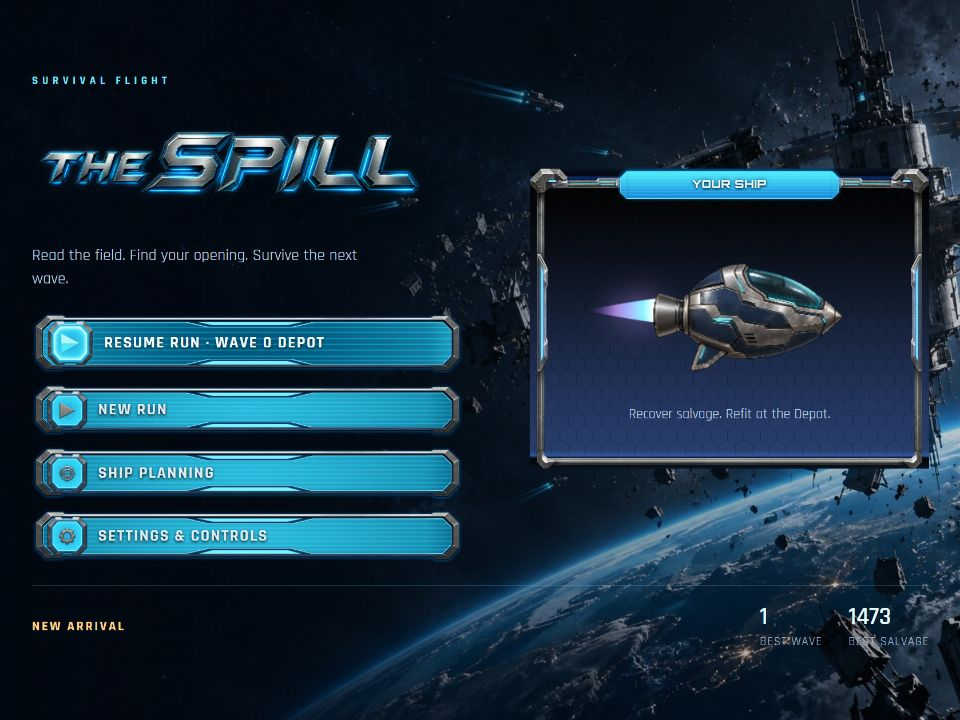
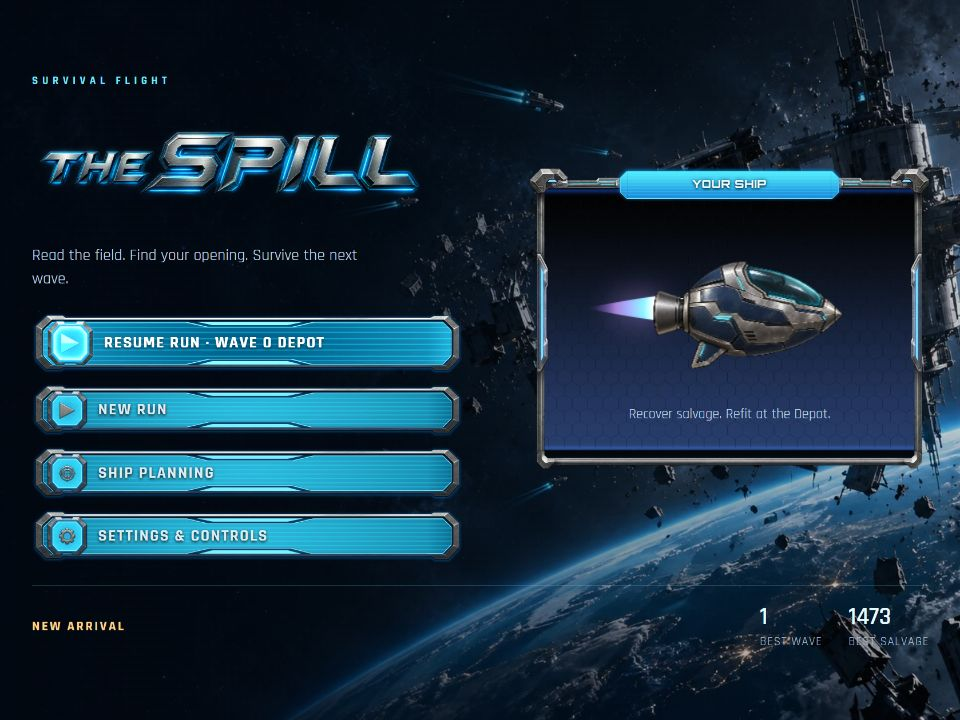
Align mobile Depot chrome and keep the complete ship visible

diff --git a/public/space-ui.css b/public/space-ui.css
@@ -281,8 +281,8 @@ body.mwr-ui .ac-workshop-buy[data-ui-state="selected"]:disabled { opacity: 1; co
 body.mwr-ui .ac-weapon-stats { color: #b5e8f7; font-size: 12px; }
 body.mwr-ui :is(.ac-workshop-free, .ac-workshop-need, .ac-workshop-milestone, .ac-workshop-contract, .ac-workshop-requirement) { color: var(--mwr-amber); }
 
-/* Depot stays one scroll container so refits retain their place. Header and
-   launch bar are sticky, with their full in-flow height reserved at both ends. */
+/* Shared Depot controls; the framed shell below reserves separate header and
+   footer rows around the middle scroll container. */
 body.mwr-ui .ac-depotwrap.ac-workshop {
   padding: max(14px, env(safe-area-inset-top)) 18px max(14px, env(safe-area-inset-bottom));
   background: linear-gradient(#030a12b3, #030a12e8), url("./art/space-ui/menu-background.webp") center / cover;
@@ -318,6 +318,7 @@ body.mwr-ui :is(.ac-workshop, .ac-spillsetup) .ac-helpdot {
   width: 44px;
   height: 44px;
   min-width: 44px;
+  padding: 0;
   border: 1px solid #628ba1;
   border-radius: 3px;
   background: linear-gradient(#253e50, #0b1d2c);
@@ -580,7 +581,18 @@ body.mwr-ui.mwr-motion-off .ac-workshop-hint-ring::after { opacity: .8; transfor
 body.mwr-ui .mwr-kit-panel {
   position: relative;
   isolation: isolate;
+  background: none;
+}
+/* The source frame has transparent margins beyond its bevel. Keep the opaque
+   insert inside that bevel instead of painting a blue rectangle underneath it. */
+body.mwr-ui .mwr-kit-panel::after {
+  content: "";
+  position: absolute;
+  inset: 14px 12px 8px;
+  z-index: -1;
   background: #071321 url("./art/space-ui/panel-surface.webp") center / cover no-repeat;
+  clip-path: polygon(8px 0, calc(100% - 8px) 0, 100% 8px, 100% calc(100% - 8px), calc(100% - 8px) 100%, 8px 100%, 0 calc(100% - 8px), 0 8px);
+  pointer-events: none;
 }
 body.mwr-ui .mwr-kit-panel::before {
   content: "";
@@ -664,12 +676,13 @@ body.mwr-ui .mwr-screen-shell .mwr-screen-subtitle { margin-top: 8px; }
 body.mwr-ui .mwr-screen-shell .mwr-settings-panel { padding: 0; border: 0; background: none; box-shadow: none; }
 body.mwr-ui .mwr-screen-shell .ac-spillsetting { background: #071626b3; }
 body.mwr-ui .mwr-screen-shell .mwr-actions button { flex-basis: 160px; }
-/* The Depot's compact wallet/header stays in its established scroll layout.
-   Its solid header closes the top opening instead of adding a second title row. */
+/* Standalone guide cards retain their own frame; the Depot shell below removes
+   this border from its middle scrolling card to avoid double framing. */
 body.mwr-ui .ac-depotwrap.ac-workshop .ac-depotcard {
   border: 7px solid transparent;
   border-image: url("./art/space-ui/panel-frame.webp") 84 340 72 340 / 24px 95px 20px / 0 stretch;
   background: #071321 url("./art/space-ui/panel-surface.webp") center / cover no-repeat;
+  background-clip: padding-box;
 }
 body.mwr-ui .ac-workshop-head {
   border-top: 3px solid #5c8596;
@@ -686,4 +699,107 @@ body.mwr-ui .ac-workshop-head {
   body.mwr-ui .mwr-screen-shell > .mwr-screen { inset-block: 38px 16px; padding-block: 4px; gap: 14px; }
   body.mwr-ui .mwr-ship-bay { padding-top: 26px; padding-bottom: 13px; }
   body.mwr-ui .mwr-ship-bay > .mwr-panel-title { font-size: 10px; min-height: 32px; }
+}
+
+/* Depot chrome owns real grid rows. Only the middle card scrolls, so the
+   footer never floats over the ship or its upgrade controls. */
+body.mwr-ui .mwr-depot-shell {
+  display: grid;
+  grid-template-rows: auto minmax(0, 1fr) auto;
+  width: min(1120px, 100%);
+  height: 100%;
+  min-height: 0;
+  max-height: 940px;
+  padding: 40px 14px 16px;
+}
+body.mwr-ui .ac-depotwrap.ac-workshop .mwr-depot-shell > .ac-depotcard {
+  width: 100%;
+  height: 100%;
+  min-height: 0;
+  max-height: none;
+  padding: 0;
+  border: 0;
+  border-radius: 0;
+  background: none;
+  box-shadow: none;
+  scroll-padding: 12px;
+}
+body.mwr-ui .mwr-depot-topbar {
+  position: relative;
+  display: grid;
+  grid-template-columns: minmax(72px, 1fr) auto auto;
+  gap: 12px;
+  padding: 4px 10px 8px;
+  border-top: 0;
+  border-bottom: 1px solid var(--mwr-line-soft);
+  background: #071522;
+  box-shadow: none;
+}
+body.mwr-ui .mwr-depot-heading .ac-kicker { margin: 0; font-size: 10px; letter-spacing: .12em; }
+body.mwr-ui .mwr-depot-vitals {
+  justify-content: flex-start;
+  flex-wrap: nowrap;
+  gap: 12px;
+  min-width: max-content;
+  padding: 0;
+  border: 0;
+  background: none;
+  font-size: 13px;
+}
+body.mwr-ui .mwr-depot-vitals .ac-workshop-health { flex: none; gap: 4px; }
+body.mwr-ui .mwr-depot-vitals progress { width: 104px; height: 5px; }
+body.mwr-ui .mwr-depot-vitals .ac-workshop-buy { padding: 6px 10px; font-size: 12px; }
+body.mwr-ui .mwr-depot-shell > .ac-workshop-footer {
+  position: relative;
+  padding: 6px 10px 0;
+  margin: 0;
+  border-top: 1px solid var(--mwr-line-soft);
+  background: #071522;
+}
+body.mwr-ui .mwr-depot-shell > .ac-workshop-footer::before { display: none; }
+body.mwr-ui .mwr-depot-shell .mwr-depot-layout { padding: 10px; }
+body.mwr-ui .ac-workshop-selection .mwr-depot-upgrade-note {
+  margin: 5px 0 0;
+  padding: 0;
+  border: 0;
+  background: none;
+  color: var(--mwr-amber);
+  font-size: 12px;
+}
+@media (max-width: 700px) {
+  body.mwr-ui .mwr-depot-topbar { grid-template-columns: minmax(0, 1fr) auto; gap: 6px 10px; }
+  body.mwr-ui .mwr-depot-vitals { grid-row: 2; grid-column: 1 / -1; justify-content: space-between; gap: 6px; font-size: 12px; }
+  body.mwr-ui .mwr-depot-vitals progress { width: 88px; }
+  body.mwr-ui .mwr-depot-vitals .ac-workshop-buy { padding-inline: 6px; font-size: 11px; }
+  body.mwr-ui .mwr-depot-heading { align-self: center; }
+  body.mwr-ui .mwr-depot-topbar .ac-workshop-headtools { grid-column: 2; grid-row: 1; }
+}
+@media (orientation: landscape) and (max-height: 540px) {
+  body.mwr-ui .mwr-depot-shell { padding-top: 36px; padding-bottom: 12px; }
+  body.mwr-ui .mwr-depot-shell .ac-workshop-wallet { min-height: 34px; }
+  body.mwr-ui .mwr-depot-topbar { grid-template-columns: minmax(64px, 1fr) auto auto; padding: 0 8px 4px; gap: 8px; }
+  body.mwr-ui .mwr-depot-vitals { grid-column: auto; grid-row: auto; gap: 8px; font-size: 12px; }
+  body.mwr-ui .mwr-depot-topbar .ac-workshop-headtools { grid-column: auto; grid-row: auto; gap: 6px; }
+  body.mwr-ui .mwr-depot-heading .ac-kicker { font-size: 9px; letter-spacing: .06em; }
+  body.mwr-ui .mwr-depot-vitals progress { width: 88px; }
+  body.mwr-ui .mwr-depot-shell .mwr-depot-layout { padding: 6px 8px; gap: 12px; grid-template-columns: minmax(280px, 1fr) minmax(0, 1fr); }
+  body.mwr-ui .mwr-depot-shell .ac-workshop-receipt { min-height: 18px; padding-bottom: 2px; font-size: 11px; }
+  body.mwr-ui .mwr-depot-ship-stage { min-height: 0; display: grid; grid-template-columns: repeat(4, minmax(0, 1fr)); gap: 4px; padding: 0 4px 4px; }
+  body.mwr-ui .mwr-depot-ship-stage .ac-workshop-preview { grid-column: 1 / -1; width: 100%; max-width: none; min-height: 0; height: clamp(96px, calc(100dvh - 238px), 170px); object-fit: contain; }
+  body.mwr-ui .mwr-depot-ship-stage .ac-workshop-links { display: none; }
+  body.mwr-ui .mwr-depot-ship-stage .ac-workshop-system { position: relative; inset: auto; width: auto; min-height: 44px; padding: 5px 2px; font-size: 11px; gap: 2px; }
+  body.mwr-ui .mwr-depot-ship-stage .ac-workshop-systemname { gap: 3px; }
+  body.mwr-ui .mwr-depot-ship-stage .ac-workshop-icon { width: 13px; height: 13px; }
+  body.mwr-ui .mwr-depot-ship-stage .ac-workshop-systemprice { font-size: 11px; }
+  body.mwr-ui .mwr-depot-ship-stage .ac-workshop-system:focus-visible { outline-offset: 1px; }
+  body.mwr-ui .mwr-depot-ship-stage.ac-workshop-hint-arrows .ac-workshop-system::after { display: none; }
+}
+@media (orientation: landscape) and (max-height: 350px) {
+  body.mwr-ui .mwr-depot-ship-stage .ac-workshop-preview { height: 72px; }
+}
+@media (orientation: landscape) and (max-width: 700px) {
+  body.mwr-ui .mwr-depot-topbar .ac-workshop-wallet { padding: 4px 6px; font-size: 14px; gap: 4px; }
+  body.mwr-ui .mwr-depot-topbar .mwr-wallet-label { display: none; }
+  body.mwr-ui .mwr-depot-outfitting :is(.ac-workshop-weapongrid, .ac-artifact-grid) { grid-template-columns: 1fr; }
+  body.mwr-ui .ac-workshop-utilityname { flex-wrap: wrap; gap: 4px; }
 }

diff --git a/illustrated-src/game/spill-workshop.ts b/illustrated-src/game/spill-workshop.ts
@@ -434,8 +434,8 @@ export function drawDepotWorkshop(engine: Engine, view: DepotView, rerender: () 
     wrap.append(drawDepotGuide(engine, () => { view.guide = false; rerender(); }, "BACK TO DEPOT"));
     return wrap;
   }
-  const sheet = el("section", "ac-lvlcard ac-depotcard ac-workshop-card mwr-panel");
-  sheet.setAttribute("role", "dialog"); sheet.setAttribute("aria-label", "Salvage depot");
+  const shell = el("div", "mwr-depot-shell mwr-kit-panel"), sheet = el("section", "ac-lvlcard ac-depotcard ac-workshop-card mwr-panel");
+  shell.setAttribute("role", "dialog"); shell.setAttribute("aria-label", "Salvage depot");
   const arming = (sp.depot?.arm ?? 0) > 0;
   // A redraw must not restart the nudge, so its delay is measured from when
   // this Depot opened: negative once the wait is over, which resumes the
@@ -461,22 +461,23 @@ export function drawDepotWorkshop(engine: Engine, view: DepotView, rerender: () 
       if (engine.spillBuy(what) !== "ok") { view.receipt = "Upgrade unavailable"; rerender(); }
     }; return b;
   };
-  const head = el("header", "ac-workshop-head"), heading = el("div"), tools = el("div", "ac-workshop-headtools"), wallet = el("div", "ac-workshop-wallet");
+  const head = el("header", "ac-workshop-head mwr-depot-topbar"), heading = el("div", "mwr-depot-heading"), tools = el("div", "ac-workshop-headtools"), wallet = el("div", "ac-workshop-wallet");
   const trial = engine.spillTrial();
-  heading.append(el("p", "ac-kicker", trial ? "PRACTICE · NO PROGRESS SAVED" : `THE SPILL · ${sp.welcome ? "PRE-FLIGHT" : `WAVE ${sp.wave} CLEARED`}`), el("h2", "", trial ? "Trial loadout" : sp.firstPass ? "First pass complete" : "Salvage depot"));
+  const title = el("h2", "mwr-panel-title", trial ? "Trial loadout" : sp.firstPass ? "First pass complete" : "Salvage depot");
+  heading.append(el("p", "ac-kicker", trial ? "PRACTICE · NO PROGRESS SAVED" : `THE SPILL · ${sp.welcome ? "PRE-FLIGHT" : `WAVE ${sp.wave} CLEARED`}`));
   wallet.setAttribute("aria-label", `${sp.ore} Salvage`); wallet.append(coin(), el("b", "", String(sp.ore)), el("span", "mwr-wallet-label", "SALVAGE"));
   const guide = el("button", "ac-helpdot", "?"); guide.setAttribute("aria-label", "How the Depot works"); guide.dataset.spillControl = "guide"; guide.onclick = () => { view.guide = true; rerender(); };
-  tools.append(wallet, guide); head.append(heading, tools); sheet.append(head);
-  if (sp.firstPass && !trial) sheet.append(el("p", "ac-workshop-milestone", "Wave 20 complete. Victory recorded. Keep your ship and fly on."));
-  const layout = el("div", "mwr-depot-layout"), bay = el("div", "mwr-depot-bay"), outfitting = el("div", "mwr-depot-outfitting");
-  layout.append(bay, outfitting); sheet.append(layout);
-  const status = el("div", "ac-workshop-status"), health = el("div", "ac-workshop-health"), healthText = el("span"), healthBar = el("progress");
+  const status = el("div", "ac-workshop-status mwr-depot-vitals"), health = el("div", "ac-workshop-health"), healthText = el("span", "mwr-depot-healthtext"), healthBar = el("progress");
+  status.setAttribute("role", "group"); status.setAttribute("aria-label", "Ship status");
   healthText.append(systemIcon("plating"), el("b", "", "Health"), el("span", "", `${sp.hull} / ${sp.maxHull}`));
   healthBar.max = sp.maxHull; healthBar.value = sp.hull; healthBar.setAttribute("aria-label", `${sp.hull} of ${sp.maxHull} health`); health.append(healthText, healthBar);
   const shields = el("div", "ac-workshop-shields"); shields.append(systemIcon("shield"), el("span", "", `Shields ${sp.shield} / 2`));
-  status.append(health, shields); if (!sp.welcome) status.append(priceButton("repair", "Repair")); bay.append(status);
-  if (sp.welcome) bay.append(el("p", "ac-workshop-free", sp.freeUpgrade ? "Choose one free upgrade" : "✓ Upgrade fitted · ready to launch"));
-  const stage = el("div", "ac-workshop-stage"); stage.append(shipPreview(engine, spillBuildFromState(sp), 192, view.flashAt));
+  status.append(health, shields); if (!sp.welcome) status.append(priceButton("repair", "Repair"));
+  tools.append(wallet, guide); head.append(heading, status, tools);
+  if (sp.firstPass && !trial) sheet.append(el("p", "ac-workshop-milestone", "Wave 20 complete. Victory recorded. Keep your ship and fly on."));
+  const layout = el("div", "mwr-depot-layout"), bay = el("div", "mwr-depot-bay"), outfitting = el("div", "mwr-depot-outfitting");
+  layout.append(bay, outfitting); sheet.append(layout);
+  const stage = el("div", "ac-workshop-stage mwr-depot-ship-stage"); stage.append(shipPreview(engine, spillBuildFromState(sp), 192, view.flashAt));
   // the arrows point at the four options until the pilot taps one of them
   if (hinting && !view.picked) stage.classList.add("ac-workshop-hint-arrows");
   const links = document.createElementNS("http://www.w3.org/2000/svg", "svg"); links.classList.add("ac-workshop-links"); links.setAttribute("viewBox", "0 0 344 192"); links.setAttribute("aria-hidden", "true");
@@ -498,6 +499,7 @@ export function drawDepotWorkshop(engine: Engine, view: DepotView, rerender: () 
   words.append(el("h3", "", `${SPILL_SHOP[part].name}${part === "plating" ? " upgrade" : ""}`), el("p", "", part === "shield"
     ? tier >= max ? "Two shields ready" : `Blocks one hit · ${tier} → ${tier + 1} shields`
     : tier >= max ? "Fully upgraded" : part === "plating" ? `Max health ${sp.maxHull} → ${sp.maxHull + 1}` : SPILL_SHOP[part].levels[tier]));
+  if (sp.welcome) words.append(el("p", "ac-workshop-free mwr-depot-upgrade-note", sp.freeUpgrade ? "Choose one free upgrade" : "✓ Upgrade fitted · ready to launch"));
   const take = priceButton(part);
   // the ring marks the one button that fits the free upgrade
   if (hinting) take.classList.add("ac-workshop-hint-ring");
@@ -641,5 +643,5 @@ export function drawDepotWorkshop(engine: Engine, view: DepotView, rerender: () 
   const go = el("button", "ac-primary ac-workshop-launch", sp.welcome && sp.freeUpgrade ? "CHOOSE FREE UPGRADE" : `LAUNCH WAVE ${sp.welcome ? 1 : sp.wave + 1}`);
   go.disabled = arming || !!(sp.welcome && sp.freeUpgrade); go.dataset.spillControl = "launch"; go.onclick = () => engine.spillLeaveDepot();
   uiState(go, arming ? "arming" : sp.welcome && sp.freeUpgrade ? "locked" : "available");
-  actions.append(go); footer.append(actions); sheet.append(footer); wrap.append(sheet); return wrap;
+  actions.append(go); footer.append(actions); shell.append(title, head, sheet, footer); wrap.append(shell); return wrap;
 }

diff --git a/docs/UI_IDENTITY.md b/docs/UI_IDENTITY.md
@@ -22,13 +22,14 @@ At the owner's direction on 2026-10-30, **Flight Trials are hidden for now**. Th
 
 - Keep the flight center clear. HUD information belongs around the playfield edges; decorative frames must not become touch targets or conceal hazard warnings.
 - Preserve portrait and landscape layouts, browser safe-area insets, rotation pause and the existing floating joystick. Do not add fixed flight buttons.
-- Assemble a panel from its separate honeycomb surface, outer metal frame and cyan nameplate. Keep label text inside the nameplate and content inside the frame. Nine-slice resizable controls and frames so their metal bevels retain a consistent thickness; do not stretch the whole border image to unrelated aspect ratios.
-- Let long Depot, guide, loadout and settings content scroll, including expanded control instructions. Apply the same requirement if trial navigation returns. The Depot's ship/system bay and outfitting sections may sit side by side when space permits and stack on narrow screens. Launch/save actions remain outside the two-column content group.
+- Assemble a panel from its separate honeycomb surface, outer metal frame and cyan nameplate. Inset the surface behind the transparent bevels so rectangular backing cannot protrude around corners. Keep label text inside the nameplate and content inside the frame. Nine-slice resizable controls and frames so their metal bevels retain a consistent thickness; do not stretch the whole border image to unrelated aspect ratios.
+- Let long Depot, guide, loadout and settings content scroll, including expanded control instructions. Apply the same requirement if trial navigation returns. The Depot's outer shell owns the frame and separate title plate; its top bar, middle scroller and footer occupy separate rows with the same side inset. Health, Shields and the existing Repair action belong in the top bar. Keep `.ac-depotcard` as the middle scroll/focus target; launch/save actions must not overlay its content.
+- The Depot's ship/system bay and outfitting sections may sit side by side when space permits and stack on narrow screens. In short landscape, place the four system controls in a row below the full ship preview, rather than over its image. Keep the free-upgrade message with the selected-system purchase. Depot guides retain their separate scrollable card; they do not use the workshop shell.
 - Keep the selected weapon visibly equipped even though its equip button is disabled. Selected, locked, insufficient-funds, completed, temporarily arming, hover, pressed and keyboard-focus states must be distinguishable. State text and `aria-pressed` carry meaning in addition to color.
 - Retain the remaining `data-action`, `data-spill-control`, `data-career-choice`, `data-ship-starter` and `data-ship-color` hooks; only the explicitly superseded Controls entry and trial navigation were removed. Existing focus restoration, details expansion, scroll restoration, modal behavior and checkpoint actions continue to apply.
 - Honor reduced motion and avoid decorative continuous motion during navigation. Preserve the action labels and readable contrast when backgrounds or fonts are unavailable.
 
-The shared presentation hooks are `mwr-panel`, `mwr-section`, `mwr-option`, `mwr-depot-layout`, `mwr-depot-bay`, `mwr-depot-outfitting`, `mwr-control-card` and `data-ui-state`. The latter describes presentation only; engine methods remain the authority for purchases, unlocks and launch guards. Avoid reimplementing rules in styles or UI state attributes.
+The shared presentation hooks are `mwr-panel`, `mwr-section`, `mwr-option`, `mwr-depot-layout`, `mwr-depot-bay`, `mwr-depot-outfitting`, `mwr-control-card` and `data-ui-state`. The Depot adds `mwr-depot-shell`, `mwr-depot-topbar`, `mwr-depot-vitals`, `mwr-depot-ship-stage` and `mwr-depot-upgrade-note`. Its shell contains the single `h2.mwr-panel-title`, header, `.ac-depotcard` and footer as siblings; the title plate sits over the frame's top gap. `data-ui-state` describes presentation only; engine methods remain the authority for purchases, unlocks and launch guards. Avoid reimplementing rules in styles or UI state attributes.
 
 ## Supplied assembly references
 

diff --git a/docs/VALIDATION.md b/docs/VALIDATION.md
@@ -2,6 +2,24 @@
 
 ## The Spill identity — 2026-10-30
 
+### Depot alignment correction
+
+The owner found visible defects in the PR screenshots: the opaque backing extended outside the metal bevel, Depot sections used inconsistent insets, and the sticky footer covered the ship. These were candidate-image findings, not reports from a merged build or a physical-phone playtest. They supersede the earlier visual-review claims below for the original Depot layout.
+
+The corrected Depot has an outer frame and nameplate with separate header, scroll area and footer rows. Health, Shields and Repair occupy the header. On short landscape screens the four system controls sit below the complete ship canvas. Panel surfaces are inset independently of the decorative frame. At 568px landscape width, weapon/artifact cards stack and utility headings wrap.
+
+Actual browser screenshots and bounds checks confirm the full ship canvas, separate header/body/footer, and no header overlap at 390x844 and 844x390 for the normal opening Depot, plus 320x480 and 568x320 for an upgraded, damaged-ship fixture with a 2,500-salvage wallet. At 568x320 its scroll/client widths both measure 506px; all four system controls are at least 52px high. At 844x390 the normal Depot measures 782/782px and retains 44px controls. Inspection caught and corrected Repair/wallet overlap and utility-heading overflow; scroll-width equality alone was insufficient to detect the former.
+
+The later-Depot image is a labeled memory-only fixture, not natural progress. Repair changed Health 3/5 to 5/5 and the wallet from 2,500 to 2,470. The middle area scrolled independently; the header and footer stayed visible. Normal Depot Help and Back to Depot worked. Home at 390x844 and 960x720, Settings and the sample result at 390x844 were inspected and their screenshots refreshed. Browser warnings/errors were empty. Both fixture files and tabs were removed, and the viewport override reset.
+
+The full 28-file `npm run check` passed after the Depot structure change. Subsequent CSS-only fit corrections passed a fresh build and browser review. No lint script exists; `git diff --check` passes. Physical-device feel and owner visual acceptance remain open; PR6 is not merged or published.
+
+![Corrected opening Depot at 844x390](images/identity-depot-landscape.jpg)
+
+[Portrait Depot](images/identity-depot-portrait.jpg) · [568x320 later-Depot fixture](images/identity-depot-repair-fixture.jpg)
+
+### Identity implementation and earlier checks
+
 `npm run check` passes TypeScript, clean build, asset integrity and **28 test files** on existing Node24.19.0. `git diff --check` passes; there is no separate lint script. Docker's Linux engine remains unavailable, so existing local tooling was used without installing host packages. The original 125 assets and two combat sprites remain byte-identical. The 23 new identity files total **2,084,507 bytes**; license, exact generation/edit prompts, original hull reference and source hashes are recorded separately.
 
 The production renderer checks eight portrait/landscape HUD frames with the actual shipped fonts and art, safe text bounds, a clear central flight lane, and unchanged gameplay state. Ship checks cover all 15 system-axis tiers, original attachment registration, no dependence on the old pilot, and the retained illumination setting. A 12-frame ship sheet was inspected. Another 36 cases cover all six launch lessons during countdown/GO at 568x320, 667x320 and 844x390 with a safe-area inset. Existing input, save, economy, trial isolation, encounter, hazard and ship-render regressions pass. The pinned shared-content hash was explicitly updated for the reviewed currency text rename; numeric rules were unchanged.

diff --git a/AGENTS.md b/AGENTS.md
@@ -14,7 +14,9 @@ The owner authorized a complete independent interface identity on 2026-10-30 usi
 
 The generated neutral hull skin replaces the visible acorn/pilot while using the original sprite coordinate space and retaining upgrade attachments and tier indicators. Keep its exact source-reference provenance in `docs/ui-image-prompts.json`; visual changes must not change ship collision geometry or balance.
 
-The interface is mobile-first. Use the supplied panel/button examples as assembly references: honeycomb insert, metal outer frame and a separate centered cyan title plate over the top gap. Keep the ship panel's nameplate present. Use nine-slicing for resizable metal borders instead of stretching the whole image; inspect portrait and short landscape at actual phone sizes. Source example receipts are in `docs/UI_IDENTITY.md`; the large private example images and editable kit stay outside the repository.
+The interface is mobile-first. Use the supplied panel/button examples as assembly references: honeycomb insert, metal outer frame and a separate centered cyan title plate over the top gap. Inset the backing behind transparent bevels so it cannot spill around the frame. Keep the ship panel's nameplate present. Use nine-slicing for resizable metal borders instead of stretching the whole image; inspect portrait and short landscape at actual phone sizes. Source example receipts are in `docs/UI_IDENTITY.md`; the large private example images and editable kit stay outside the repository.
+
+The Depot shell keeps the frame/title, top bar, middle `.ac-depotcard` scroller and footer separate. Health, Shields and Repair belong in the top bar; align the header, content and footer to the same side inset. Preserve `.ac-depotcard` as the host's scroll/focus target and keep footer actions from covering content. In short landscape, show the full ship with system controls in a row below it. Keep the free-upgrade affordance beside its purchase control; guides retain their separate scrollable card.
 
 The owner's latest menu direction combines Settings and Controls and hides Flight Trials for now. Preserve the trial implementation and isolated regression coverage for later, but do not expose a production shortcut or restore its menu entry without owner direction. Keep the combined screen's control guide, field guide and existing settings reachable on phones.
 

diff --git a/.agent/CONTINUITY.md b/.agent/CONTINUITY.md
@@ -1,6 +1,8 @@
 # MobileWaveRun continuity
 
 ## [PLANS]
+- 2026-10-30T22:30Z [OUTCOMES] [TOOL] Depot correction source/browser review finished: full preview/topbar vitals/separate footer, inset panel surfaces, compact controls below ship. Normal390/844, fixture320/568 with2500wallet+Repair checked; repaired3/5to5/5 costs30, narrow widths506/506, min52px controls. Fixed discovered Repair overlap and utility heading overflow. Updated screenshots; memory-only fixture tabs/files removed, viewport reset, normal menu retained. Full28-filecheck passes after structure change; finalCSS build/diff pass. SamePR6 update pending, no merge authorized; physical-device/owner acceptance UNCONFIRMED.
+- 2026-10-30T22:20Z [USER] Fix screenshot-visible panel bleed/Depot alignment; move Health and Shields into topbar and show full ship. User reviewed PR images only, not merged/in-game. SamePR6, no merge authorized. [CODE] Outerframe/title, header/middle scroller/footer as separate rows; inset surface; short landscape system row below preview. Final responsive/browser proof and checks pending.
 - 2026-10-30T21:59Z [USER] Combine Settings and Controls in one menu entry; hide Flight Trials for now to simplify mobile navigation. Preserve underlying trial implementation and regression coverage for later. Extend existing PR6; no merge authorized.
 - 2026-10-30T21:29Z [USER] Full UI/identity overhaul authorized with supplied Space Station packs; preserve gameplay, working title The Spill, used assets allowed on GitHub. PR5 merged81ee2d0; branch codex/space-ui-identity. No merge authorization.
 - 2026-10-30T03:10Z [USER] Finish full remaining playable package for owner evaluation before deciding on 3D; owner confirms hazard proposals plus climaxes, optional risks and earned loadout unlocks. No prior gameplay validation claimed. [TOOL] PR4 now merged e7c466b; clean new branch codex/arcade-evaluation from origin/main. Implement side-view production encounters and isolated Flight Trials; new PR required, no merge authorization.
